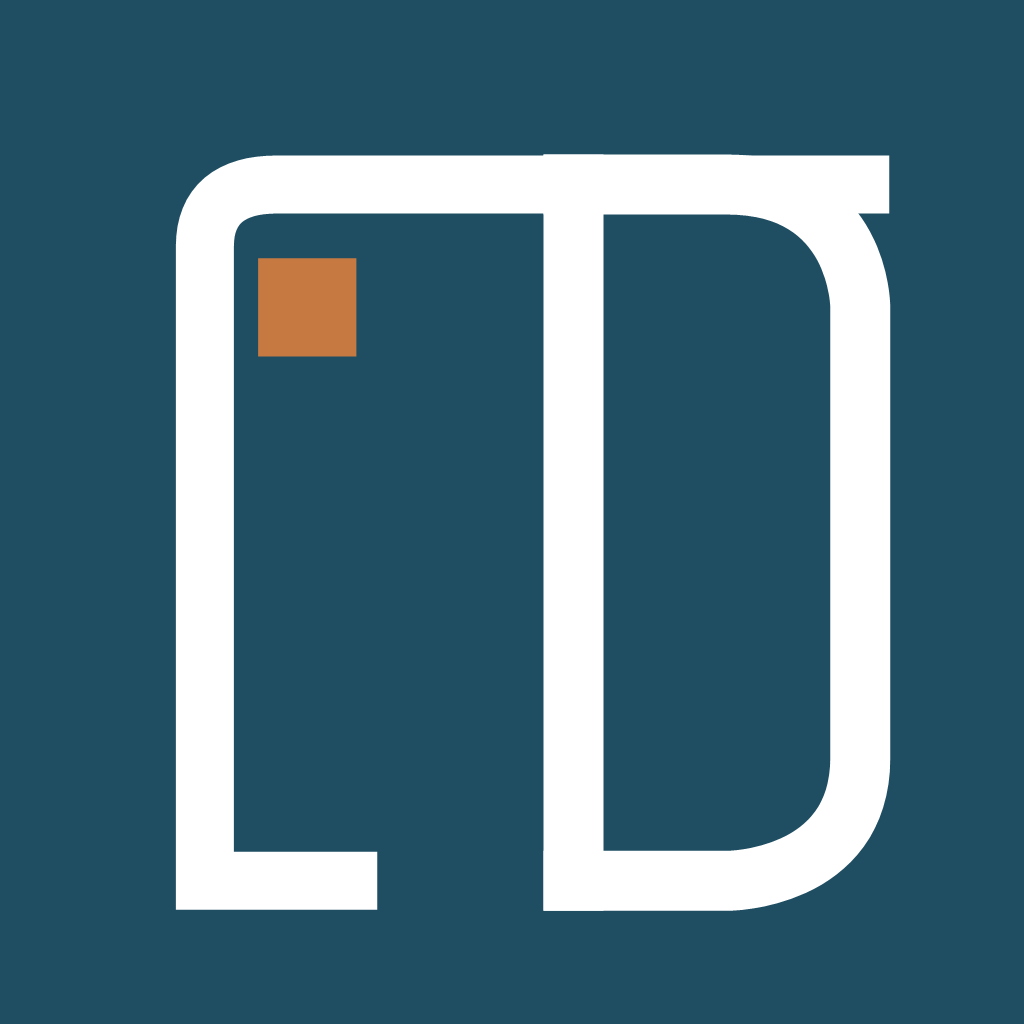
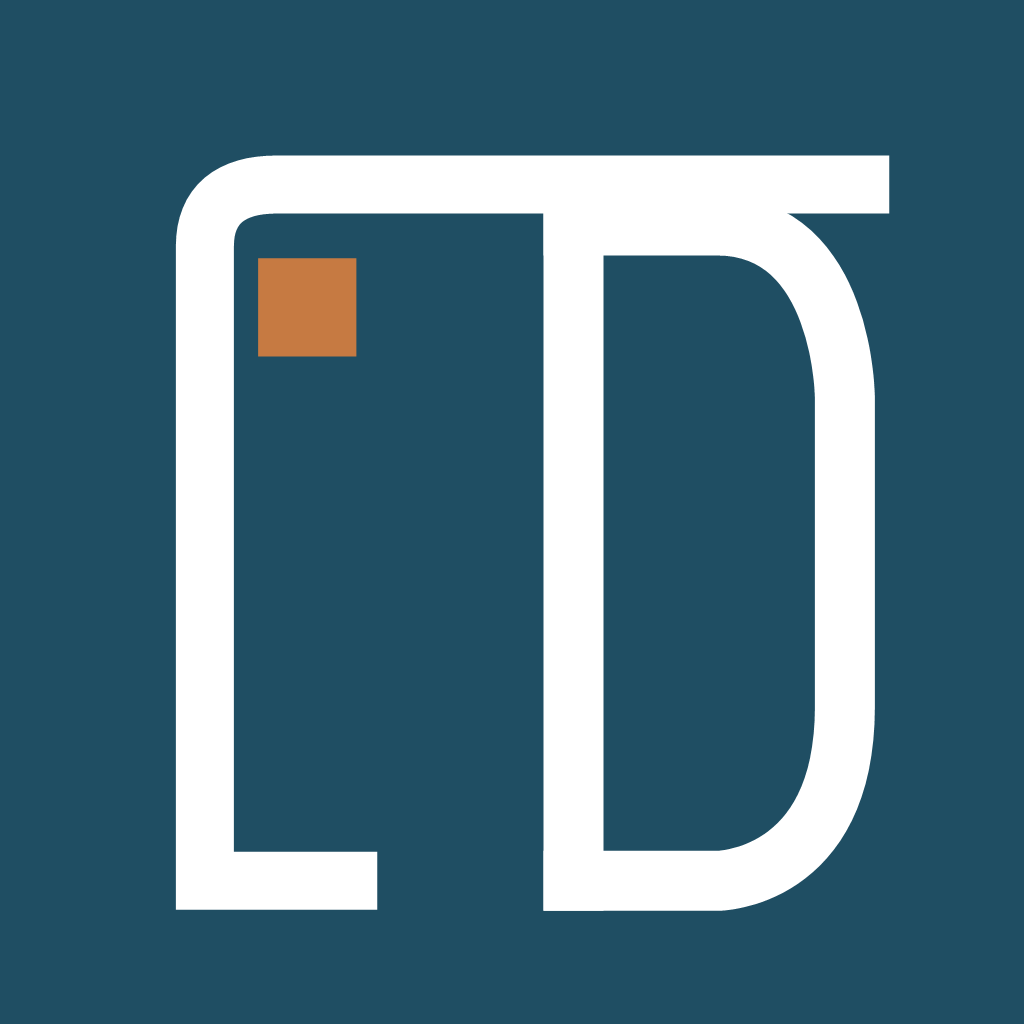
splash 3.0

Changed region(s): [[0.5625, 0.1875, 0.875, 0.9062]]

diff --git a/app/(tabs)/(estimate)/index.tsx b/app/(tabs)/(estimate)/index.tsx
@@ -12,7 +12,7 @@ import {
   Alert,
 } from 'react-native';
 import * as Haptics from 'expo-haptics';
-import { MapPin, Ruler, Info, Mountain, TreePine, Bath, Flame, Waves, FileText, ExternalLink, Plug, ShieldAlert, Droplets, Truck, AlertTriangle, Home, Wrench, Settings, BookOpen, RotateCcw } from 'lucide-react-native';
+import { MapPin, Ruler, Info, Mountain, TreePine, Bath, Flame, Waves, FileText, ExternalLink, Plug, ShieldAlert, Droplets, Truck, AlertTriangle, Home, Wrench, Settings, BookOpen } from 'lucide-react-native';
 import SliderInput from '@/components/SliderInput';
 import ScenarioBar from '@/components/ScenarioBar';
 import { useRouter } from 'expo-router';
@@ -273,7 +273,6 @@ export default function EstimateScreen() {
     basementExcavationCost,
     basementStructureCost,
     basementTotalCost,
-    resetAllData,
   } = useEstimate();
 
   const isLargeProject = permitDesignEffectiveArea > PERMIT_DESIGN_BASELINE_AREA_MAX;
@@ -1210,30 +1209,6 @@ export default function EstimateScreen() {
         <Text style={styles.disclaimerText}>{DISCLAIMER_TEXT}</Text>
       </View>
 
-      <TouchableOpacity
-        style={styles.resetBtn}
-        activeOpacity={0.7}
-        testID="reset-project-btn"
-        onPress={() => {
-          Alert.alert(
-            'Reset Project',
-            'This will delete all scenarios and restore the default configuration. This action cannot be undone.',
-            [
-              { text: 'Cancel', style: 'cancel' },
-              {
-                text: 'Reset',
-                style: 'destructive',
-                onPress: () => {
-                  void resetAllData();
-                },
-              },
-            ],
-          );
-        }}
-      >
-        <RotateCcw size={14} color={Colors.danger ?? '#DC2626'} />
-        <Text style={styles.resetBtnText}>Reset Project</Text>
-      </TouchableOpacity>
 
       <View style={styles.bottomSpacer} />
     </ScrollView>
@@ -1703,24 +1678,7 @@ const styles = StyleSheet.create({
     fontWeight: '700' as const,
     color: Colors.accent,
   },
-  resetBtn: {
-    flexDirection: 'row' as const,
-    alignItems: 'center' as const,
-    justifyContent: 'center' as const,
-    marginHorizontal: 16,
-    marginTop: 16,
-    gap: 6,
-    paddingVertical: 12,
-    borderRadius: 12,
-    borderWidth: 1,
-    borderColor: '#FECACA',
-    backgroundColor: '#FEF2F2',
-  },
-  resetBtnText: {
-    fontSize: 13,
-    fontWeight: '600' as const,
-    color: '#DC2626',
-  },
+
   bottomSpacer: {
     height: 20,
   },
@@ -1978,3 +1936,5 @@ const styles = StyleSheet.create({
     color: Colors.accent,
   },
 });
+
+

diff --git a/components/SplashIntro.tsx b/components/SplashIntro.tsx
@@ -1,4 +1,4 @@
-import React, { useCallback, useEffect, useRef, useState } from 'react';
+import React, { forwardRef, useCallback, useEffect, useRef, useState } from 'react';
 import {
   Animated,
   Easing,
@@ -9,23 +9,29 @@ import {
   TouchableOpacity,
   View,
 } from 'react-native';
-import Svg, { Path } from 'react-native-svg';
+import Svg, { Path, type PathProps } from 'react-native-svg';
 import { useSafeAreaInsets } from 'react-native-safe-area-context';
 
 import Colors from '@/constants/colors';
 
-const AnimatedPath = Animated.createAnimatedComponent(Path);
+const SvgPathWithoutCollapsable = forwardRef<Path, PathProps & { collapsable?: boolean }>(
+  ({ collapsable: _collapsable, ...props }, ref) => <Path ref={ref} {...props} />
+);
+
+SvgPathWithoutCollapsable.displayName = 'SvgPathWithoutCollapsable';
+
+const AnimatedPath = Animated.createAnimatedComponent(SvgPathWithoutCollapsable);
 
 const LOGO_SIZE = 140;
 const INTRO_LOGO_SCALE = 0.56;
 
 const FRAME_PATH = 'M 34 86 H 18 V 24 C 18 18 22 14 28 14 H 86';
-const STEM_PATH = 'M 52 14 V 86';
-const BOWL_PATH = 'M 52 14 H 68 C 80 14 86 20 86 32 V 68 C 86 80 80 86 68 86 H 52';
+const STEM_PATH = 'M 52 18 V 86';
+const BOWL_PATH = 'M 52 18 H 67 C 79 18 84 23 84 35 V 69 C 84 81 79 86 67 86 H 52';
 
 const FRAME_LENGTH = 160;
-const STEM_LENGTH = 72;
-const BOWL_LENGTH = 156;
+const STEM_LENGTH = 68;
+const BOWL_LENGTH = 146;
 
 const FRAME_STROKE = 6;
 const LETTER_STROKE = 6.2;
@@ -35,7 +41,7 @@ const MARKER_LEFT = LOGO_SIZE * 0.24;
 const MARKER_TOP = LOGO_SIZE * 0.24;
 
 const FRAME_COLOR = '#6A6A6A';
-const LETTER_COLOR = '#232323';
+const LETTER_COLOR = FRAME_COLOR;
 const SPLASH_STROKE_COLOR = '#FFFFFF';
 
 const BULLETS = [
@@ -428,7 +434,7 @@ const styles = StyleSheet.create({
     width: '100%',
     alignItems: 'center',
     gap: 10,
-    paddingTop: 124,
+    paddingTop: 138,
   },
   logoStage: {
     ...StyleSheet.absoluteFillObject,
@@ -545,3 +551,4 @@ const styles = StyleSheet.create({
     letterSpacing: 0.3,
   },
 });
+
